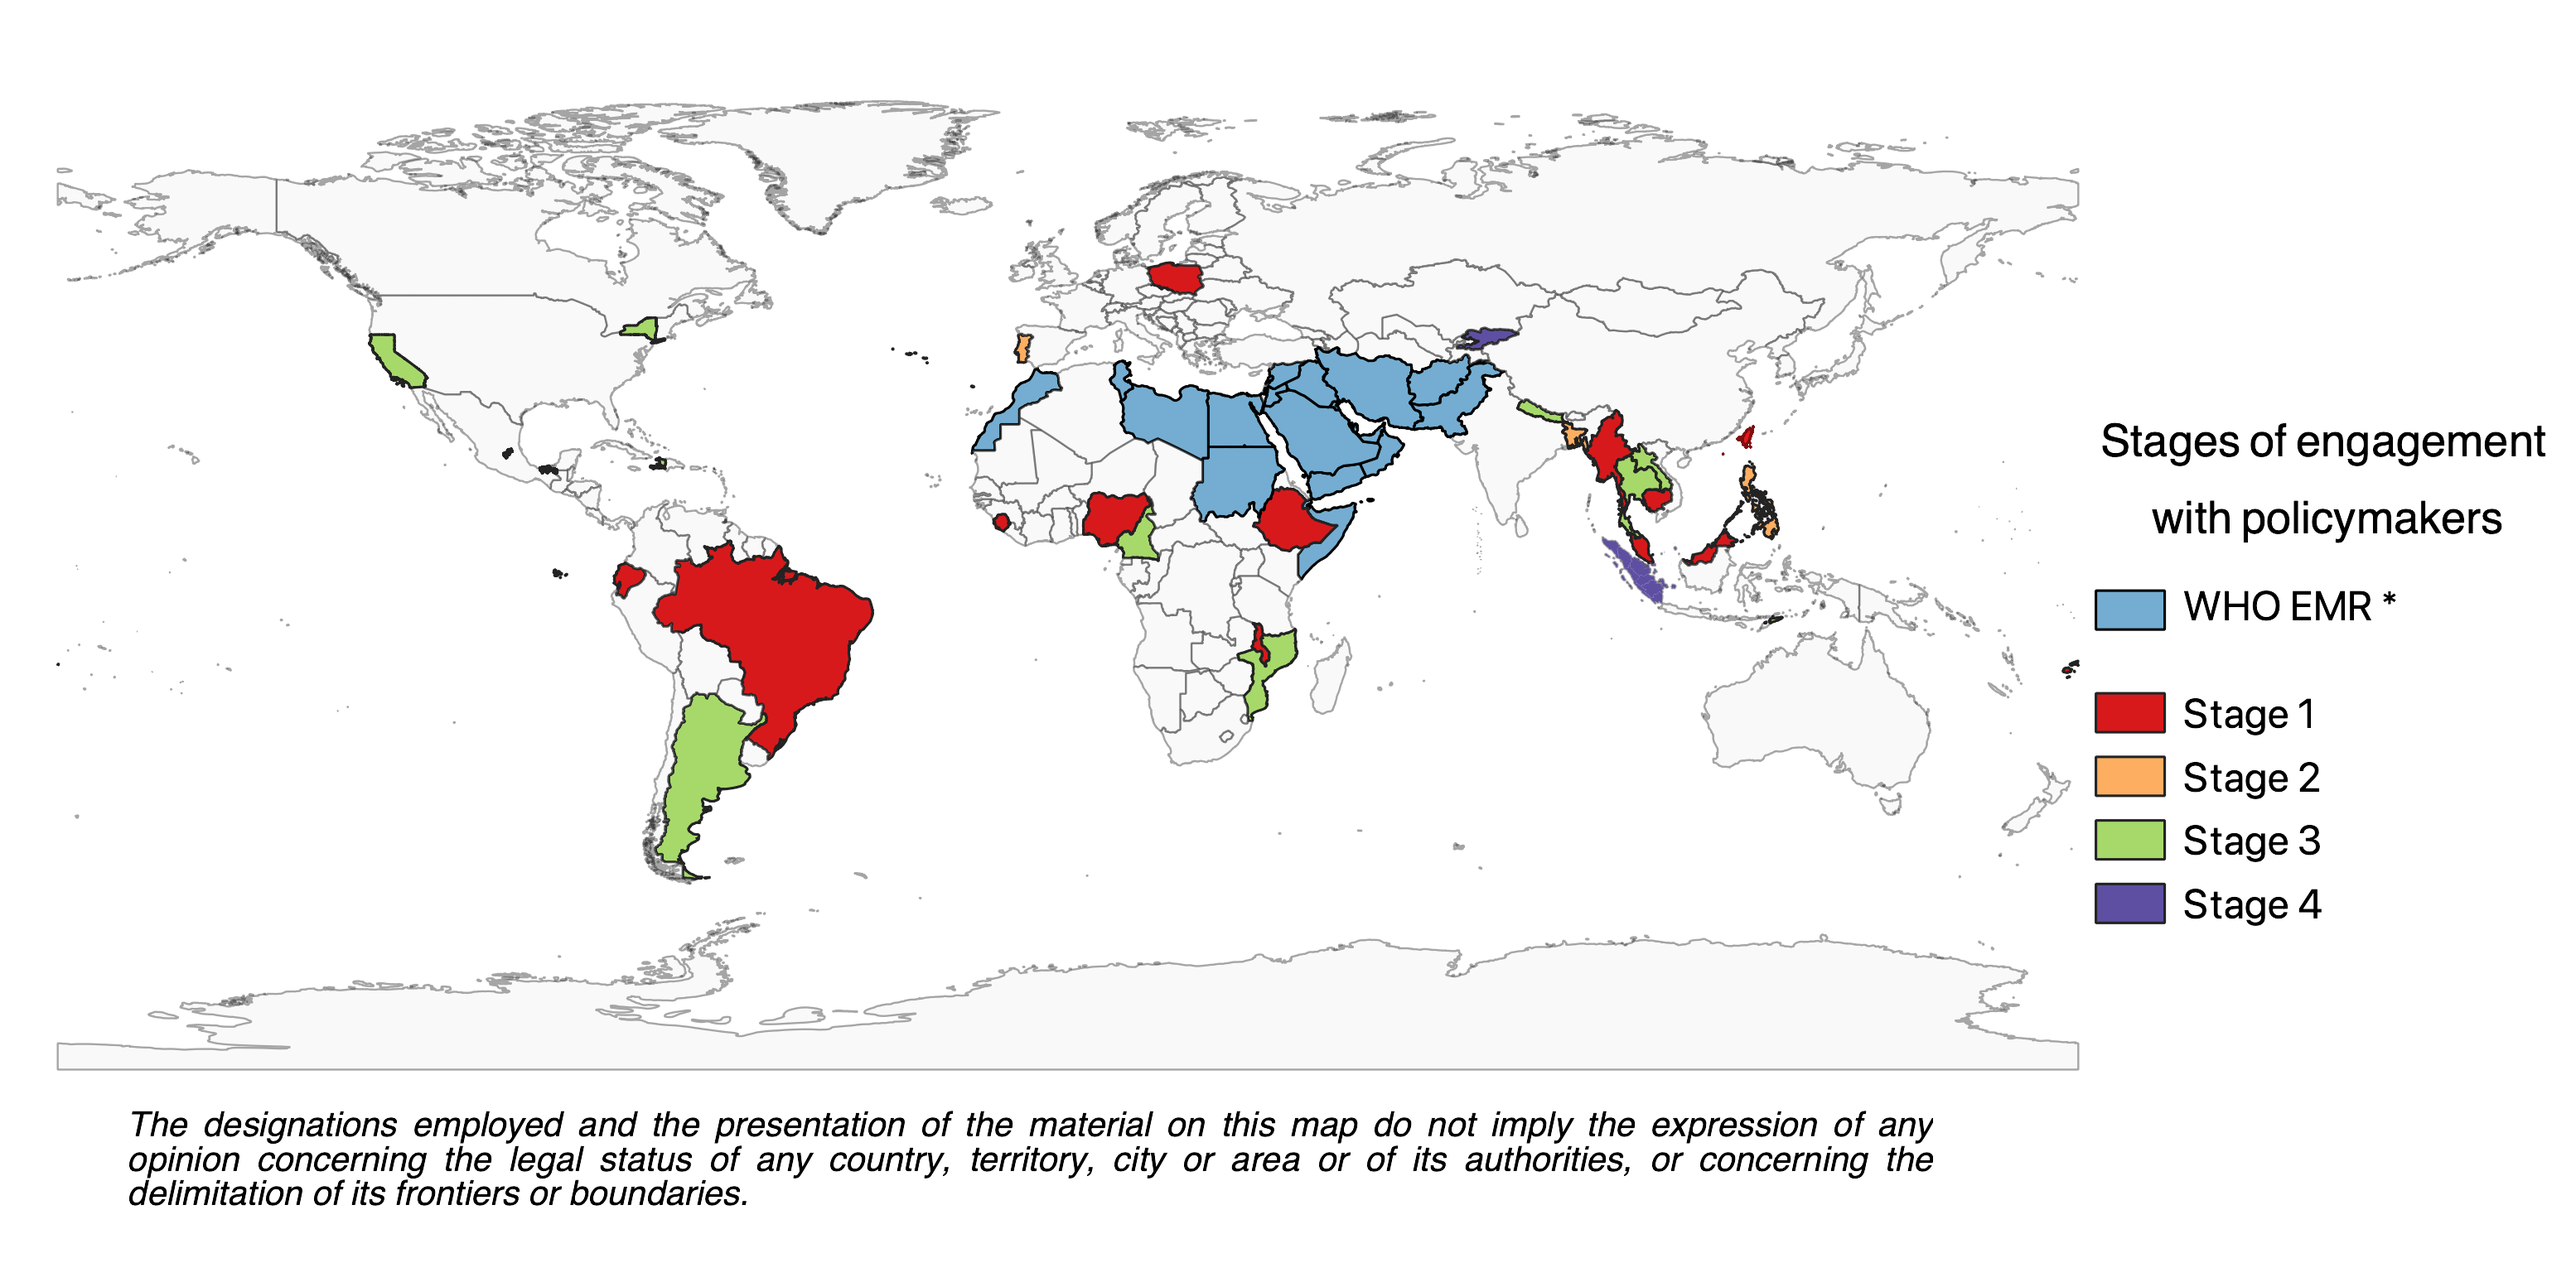
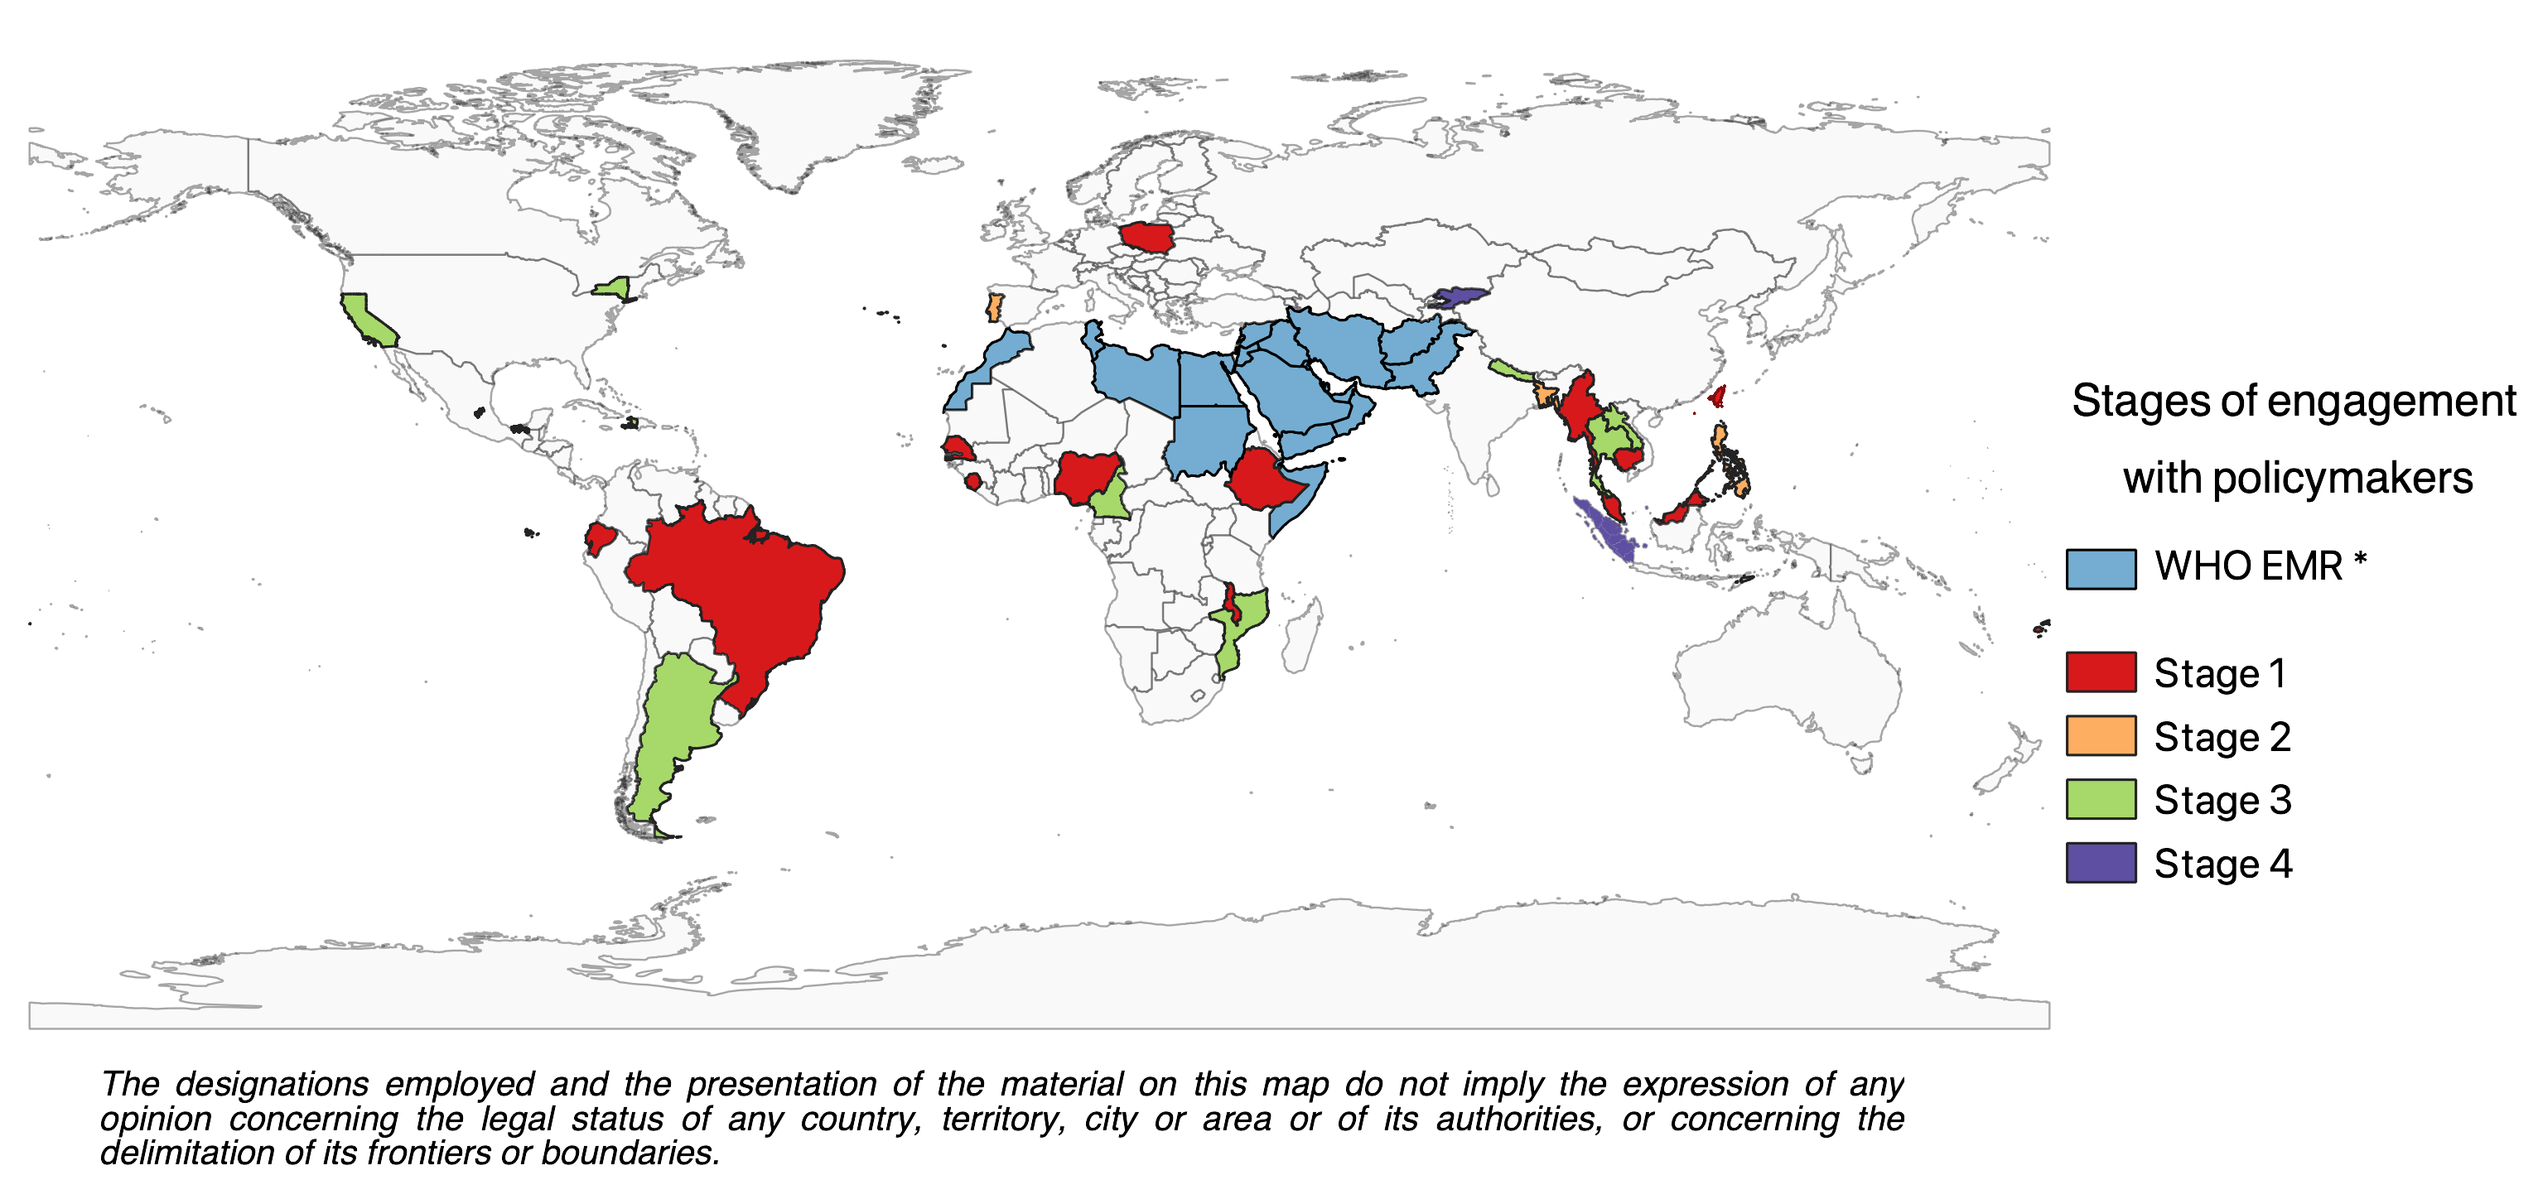
added Senegal

diff --git a/inst/comoapp/www/markdown/stages_countries.md b/inst/comoapp/www/markdown/stages_countries.md
@@ -1,4 +1,4 @@
-**Updated on January 6, 2021.**
+**Updated on April 6, 2021.**
 
 Stage 1: Preliminary analyses and model calibration to explore optimal containment strategies
 
@@ -12,6 +12,7 @@ Stage 1: Preliminary analyses and model calibration to explore optimal containme
 * Myanmar
 * Nigeria
 * Poland
+* Senegal
 * Sierra Leone
 * Syria - North East Syria
 * Taiwan
